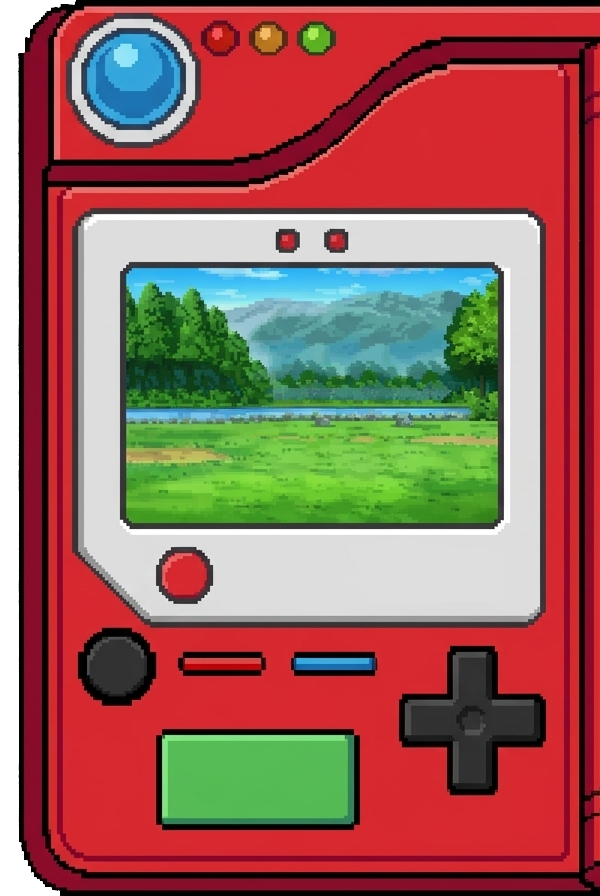
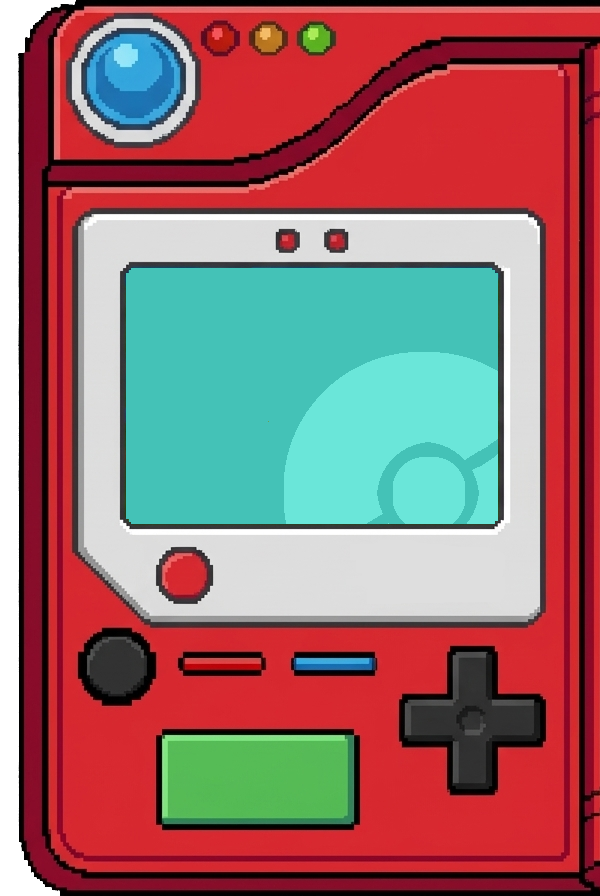
dados-API

Changed region(s): [[0.21, 0.2812, 0.84, 0.5938]]

diff --git a/index.html b/index.html
@@ -7,6 +7,8 @@
     <link rel="icon" href="./favicons/Icon.png">
     <link rel="stylesheet" href="./css/style.css">
 
+    <script defer src="./js/script.js"></script>
+
     <title>Pokedex</title>
 </head>
 <body>
@@ -15,12 +17,12 @@
 
         <div class="pokedex-left-container">
             <div class="pokemon-shadow"></div>
-            <img src="https://raw.githubusercontent.com/PokeAPI/sprites/master/sprites/pokemon/versions/generation-v/black-white/animated/7.gif" alt="pokemon" class="pokemon-image">
+            <img src="#" alt="pokemon" class="pokemon-image">
             <img src="./img/pokedex_left.png" alt="Tela da Pokedex" class="pokedex-half">
 
             <h1 class="pokemon-data">
-                <span class="pokemon-number">7</span> -
-                <span class="pokemon-name">squirtle</span>
+                <span class="pokemon-number"></span> -
+                <span class="pokemon-name"></span>
             </h1>
 
         </div>
@@ -36,12 +38,15 @@
                  required
               />
             </form>
+
+            <div class="buttons">
+                <button class="button btn-prev">Prev &lt;</button>
+                <button class="button btn-next">&gt; Next </button>
+            </div>
+
         </div>
 
-        <div class="buttons">
-            <button class="button btn-prev">Prev &lt;</button>
-            <button class="button btn-next">&gt; Next </button>
-        </div>
+
 
     </main>
     

diff --git a/js/script.js b/js/script.js
@@ -1,0 +1,40 @@
+const pokemonName = document.querySelector('.pokemon-name');
+const pokemonNumber = document.querySelector('.pokemon-number');
+const pokemonImage = document.querySelector('.pokemon-image');
+
+const form = document.querySelector('.form');
+const input = document.querySelector('.input-search');
+
+const fetchPokemon = async (pokemon) => {
+    const APIResponse = await fetch(`https://pokeapi.co/api/v2/pokemon/${pokemon.toLowerCase()}`);
+    
+    if (APIResponse.status === 200) {
+        const data = await APIResponse.json();
+        return data;
+    }
+}
+
+const renderPokemon = async (pokemon) => {
+
+    pokemonName.innerHTML = 'Loading...';
+
+    const data = await fetchPokemon(pokemon);
+
+    if (data) {
+        pokemonName.innerHTML = data.name;
+        pokemonNumber.innerHTML = data.id;
+        pokemonImage.src = data.sprites.versions['generation-v']['black-white'].animated.front_default;
+        input.value = '';
+    } else {
+        pokemonName.innerHTML = 'Not found';
+    }
+}
+
+renderPokemon('7');
+
+form.addEventListener('submit', (event) => {
+    event.preventDefault();
+
+    renderPokemon(input.value);
+    input.value = '';
+});

diff --git a/css/style.css b/css/style.css
@@ -72,32 +72,6 @@ body {
     transform: translate(-30%, 50%);
 }
 
-.pokemon-shadow {
-    position: absolute;
-    z-index: 9;
-    background-color: rgba(0, 0, 0, 0.29);
-    width: 18%;
-    height: 4%;
-    bottom: 45%;
-    left: 43.5%;
-}
-
-.pokemon-shadow::before,
-.pokemon-shadow::after {
-    content: "";
-    position: absolute;
-    background-color: rgba(0, 0, 0, 0.29);
-    left: 6px;
-    width: 44px;
-    height: 4px;
-}
-.pokemon-shadow::before {
-    top: -4px;
-}
-.pokemon-shadow::after {
-    bottom: -4px;
-}
-
 .pokemon-data {
     position: absolute;
     z-index: 10;
@@ -148,7 +122,23 @@ body {
 .buttons {
     position: absolute;
     z-index: 10;
-    bottom: 10%;
-    left: 50%;
-    transform: translate(-50%, 0);
+    bottom: 11.6%;
+    left: 27%;
+    width: 53%;
+    display: flex;
+    justify-content: space-between;
+}
+
+.button {
+    background-color: transparent;
+    border: none;
+    outline: none;
+    cursor: pointer;
+    color: rgb(234, 234, 234); 
+    font-family: 'Press Start 2P', sans-serif;
+    font-size: 10px
+}
+
+.button:active {
+    scale: 0.95;
 }
